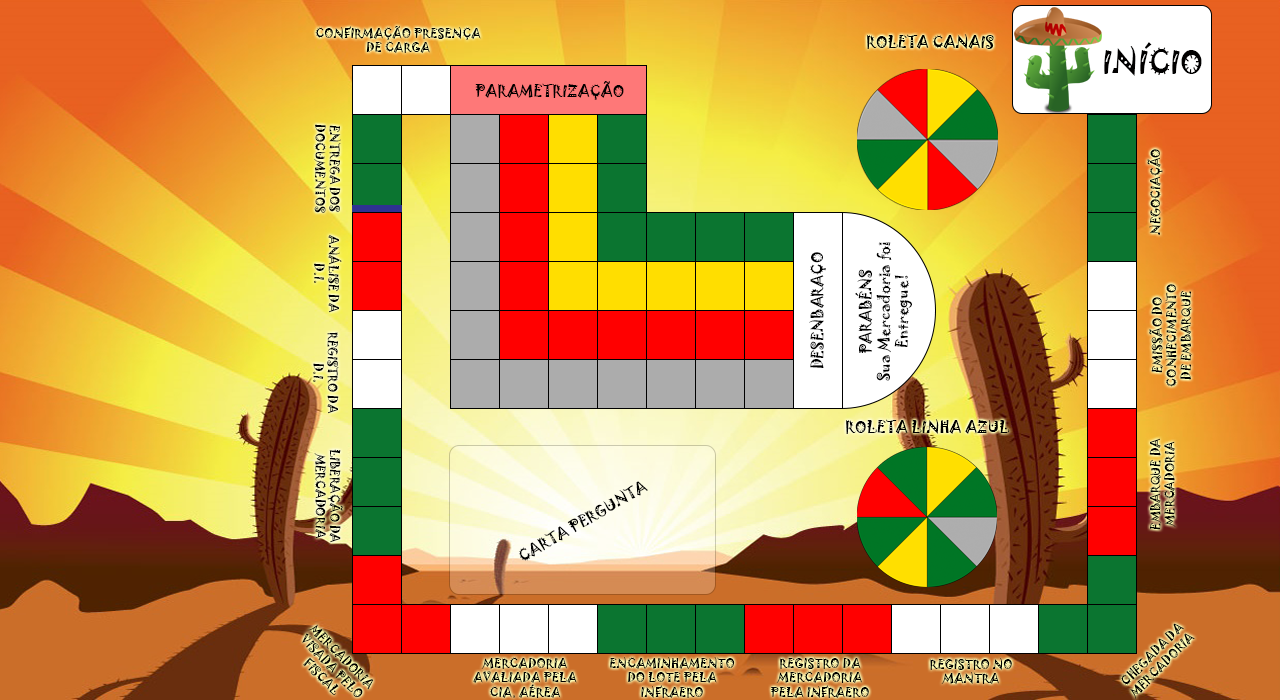
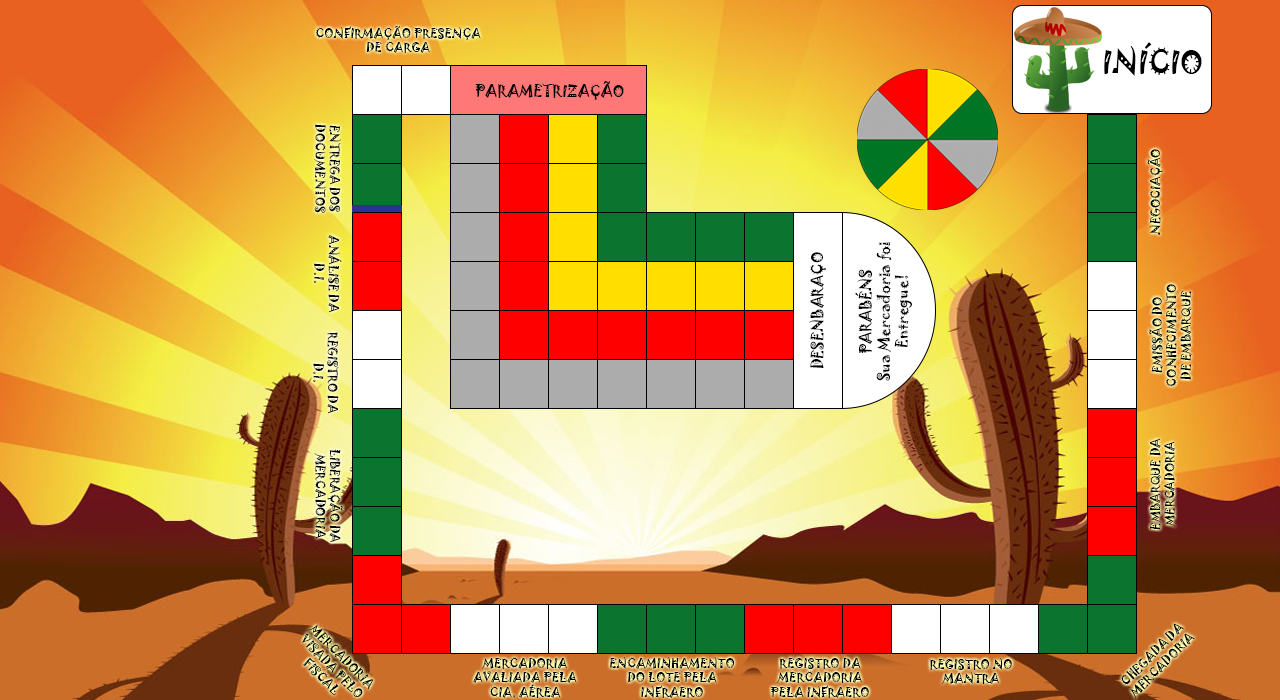
Desenvolvimento

Changed region(s): [[0.6562, 0.6, 0.8125, 0.84], [0.3438, 0.69, 0.5625, 0.87], [0.6562, 0.03, 0.7812, 0.09]]

diff --git a/src/views/GuiPrincipal.java b/src/views/GuiPrincipal.java
@@ -2,6 +2,7 @@ package views;
 
 import java.awt.Color;
 import java.awt.Container;
+import java.awt.Cursor;
 import java.awt.Dimension;
 import java.awt.Font;
 import java.awt.Image;
@@ -17,7 +18,6 @@ import java.util.Collections;
 
 import javax.imageio.ImageIO;
 import javax.swing.ImageIcon;
-import javax.swing.JButton;
 import javax.swing.JFrame;
 import javax.swing.JLabel;
 import javax.swing.JMenu;
@@ -44,14 +44,13 @@ public class GuiPrincipal extends JFrame {
 			lblJogadorAtual, lblJogadorAtualNome, lblPinoLegendaJogador1,
 			lblPinoLegendaJogador2, lblPinoLegendaJogador3,
 			lblPinoLegendaJogador4, lblLegendaJogador1, lblLegendaJogador2,
-			lblLegendaJogador3, lblLegendaJogador4, lblDocumentos, lblRodada, lblCartaJogador;
+			lblLegendaJogador3, lblLegendaJogador4, lblDocumentos, lblRodada, lblCartaJogador, btnSelecionarPergunta, btnSelecionarSorteReves;
 	public Jogador jogador1 = new Jogador(), jogador2 = new Jogador(),
 			jogador3 = new Jogador(), jogador4 = new Jogador(),
 			jogadorAtual = new Jogador();
 	private JMenu mnPrincipal, mnAjuda;
 	private JMenuItem miSobre, miSair; // mnPrincipal;
 	private JMenuItem miAjuda; // mnAjuda;
-	private JButton btnSelecionarPergunta;
 	private Dimension d;
 
 	/**
@@ -123,7 +122,7 @@ public class GuiPrincipal extends JFrame {
 
 				d.width - 172, d.width - 225, d.width - 278, d.width - 329,
 				d.width - 381, d.width - 433, d.width - 485, d.width - 539,
-				d.width - 592, d.width - 644,/* 10 */d.width - 696,
+				d.width - 592, d.width - 644, d.width - 696,
 				d.width - 748, d.width - 800, d.width - 852, d.width - 904,
 				d.width - 957,
 
@@ -138,7 +137,7 @@ public class GuiPrincipal extends JFrame {
 
 				d.width - 198, d.width - 249, d.width - 302, d.width - 355,
 				d.width - 407, d.width - 457, d.width - 510, d.width - 562,
-				d.width - 615, d.width - 667,/* 10 */d.width - 719,
+				d.width - 615, d.width - 667, d.width - 719,
 				d.width - 771, d.width - 823, d.width - 875, d.width - 927,
 				d.width - 982,
 
@@ -153,7 +152,7 @@ public class GuiPrincipal extends JFrame {
 
 				d.width - 172, d.width - 225, d.width - 278, d.width - 329,
 				d.width - 381, d.width - 433, d.width - 485, d.width - 539,
-				d.width - 592, d.width - 644,/* 10 */d.width - 696,
+				d.width - 592, d.width - 644, d.width - 696,
 				d.width - 748, d.width - 800, d.width - 852, d.width - 904,
 				d.width - 957,
 
@@ -164,19 +163,19 @@ public class GuiPrincipal extends JFrame {
 
 		int[] yp1 = { 50, 130, 181, 234, 287, 340, 390, 440, 492, 545, 596,
 				649, 649, 649, 649, 649, 649, 649, 649, 649, 649, 649, 649,
-				649, 649, 649, 649,/* */598, 546, 494, 443, 391, 339, 287,
+				649, 649, 649, 649, 598, 546, 494, 443, 391, 339, 287,
 				236, 184, 132, 80, 80 };
 		int[] yp2 = { 50, 130, 181, 234, 287, 340, 390, 440, 492, 545, 596,
 				649, 649, 649, 649, 649, 649, 649, 649, 649, 649, 649, 649,
-				649, 649, 649, 649, /* */598, 546, 494, 443, 391, 339, 287,
+				649, 649, 649, 649, 598, 546, 494, 443, 391, 339, 287,
 				236, 184, 132, 80, 80 };
 		int[] yp3 = { 75, 154, 205, 260, 313, 366, 418, 468, 518, 568, 618,
 				672, 672, 672, 672, 672, 672, 672, 672, 672, 672, 672, 672,
-				672, 672, 672, 672, /* */620, 568, 516, 465, 413, 361, 309,
+				672, 672, 672, 672, 620, 568, 516, 465, 413, 361, 309,
 				258, 206, 154, 102, 102 };
 		int[] yp4 = { 75, 154, 205, 260, 313, 366, 418, 468, 518, 568, 618,
 				672, 672, 672, 672, 672, 672, 672, 672, 672, 672, 672, 672,
-				672, 672, 672, 672, /* */620, 568, 516, 465, 413, 361, 309,
+				672, 672, 672, 672, 620, 568, 516, 465, 413, 361, 309,
 				258, 206, 154, 102, 102 };
 
 		if (!isMove) {
@@ -454,7 +453,8 @@ public class GuiPrincipal extends JFrame {
 		}
 		lblJogadorAtual = new JLabel("Jogador atual: ");
 		lblJogadorAtualNome = new JLabel("");
-		btnSelecionarPergunta = new JButton("Sortear pergunta");
+		btnSelecionarPergunta = new JLabel("");
+		btnSelecionarSorteReves = new JLabel("");
 		lblDocumentos = new JLabel("");
 		lblRodada = new JLabel("Rodada: "+rodada);
 		lblCartaJogador = new JLabel("");
@@ -498,8 +498,34 @@ public class GuiPrincipal extends JFrame {
 		lblJogadorAtualNome.setBounds(175, 50, 80, 25);
 		lblCartaJogador.setBounds(50, 150, 201, 207);
 		lblRodada.setBounds(50, 80, 150, 25);
-		btnSelecionarPergunta.setBounds(522, 530, 200, 50);
+		btnSelecionarPergunta.setBounds(55, 375, 189, 110);
+		btnSelecionarPergunta.setCursor(new Cursor(Cursor.HAND_CURSOR));
+		
+		try {
+			img = ImageIO.read(new File("Btn_Selecionar_Pergunta.png"));
+		} catch (IOException e) {
+			e.printStackTrace();
+		}
 
+		ImageIcon imageIcon = new ImageIcon(img); // load the image to a
+													// imageIcon
+
+		btnSelecionarPergunta.setIcon(imageIcon);
+		
+		btnSelecionarSorteReves.setBounds(55, 375, 189, 110);
+		btnSelecionarSorteReves.setCursor(new Cursor(Cursor.HAND_CURSOR));
+		
+		try {
+			img = ImageIO.read(new File("Btn_Selecionar_Sorte_Reves.png"));
+		} catch (IOException e) {
+			e.printStackTrace();
+		}
+
+		imageIcon = new ImageIcon(img); // load the image to a
+													// imageIcon
+
+		btnSelecionarSorteReves.setIcon(imageIcon);
+		
 		add(lblLegendaJogador1);
 		add(lblLegendaJogador2);
 		add(lblLegendaJogador3);
@@ -509,6 +535,7 @@ public class GuiPrincipal extends JFrame {
 		add(lblRodada);
 		add(lblCartaJogador);
 		add(btnSelecionarPergunta);
+		add(btnSelecionarSorteReves);
 		lblJogadorAtual.setFont(f1);
 		lblJogadorAtualNome.setFont(f1);
 		lblRodada.setFont(f1);
@@ -541,53 +568,115 @@ public class GuiPrincipal extends JFrame {
 				GuiAjuda.abrir();
 			}
 		});
-
-		btnSelecionarPergunta.addActionListener(new ActionListener() {
-			public void actionPerformed(ActionEvent arg0) {
-				PerguntasDAO perguntasDao = new PerguntasDAO();
-				Pergunta pergunta = new Pergunta();
-				pergunta = perguntasDao.selecionarPergunta();
-				boolean resposta = false;
-				try {
-					resposta = perguntasDao.validarResposta(
-							pergunta,
-							JOptionPane.showInputDialog(
-									pergunta.getDescricao().replace("/", "\n")
-											+ "\n"
-											+ pergunta.getResposta()
-													.getDescA_Resposta()
-													.replace("/", "\n")
-											+ "\n"
-											+ pergunta.getResposta()
-													.getDescB_Resposta()
-													.replace("/", "\n")
-											+ "\n"
-											+ pergunta.getResposta()
-													.getDescC_Resposta()
-													.replace("/", "\n"))
-									.substring(0, 1));
-				} catch (NullPointerException e) {
-					resposta = false;
-				} catch (StringIndexOutOfBoundsException e) {
-					resposta = false;
-				}
-
-				if (resposta) {
-					JOptionPane.showMessageDialog(null,
-							"Resposta correta! Você avançou 1 casa :D");
-					drawPinos(1, getJogadorAtualId(), true);
-					avancarCasas(1);
-				} else {
-					JOptionPane.showMessageDialog(null, "Resposta incorreta!");
-					JOptionPane.showMessageDialog(null, "Sua punição será: "
-							+ pergunta.getPunicao().getDescricao());
-					realizarPunicao(pergunta.getPunicao().getAcao());
-				}
-				alterarJogador();
+		
+		btnSelecionarPergunta.addMouseListener(new MouseListener() {
+			
+			@Override
+			public void mouseReleased(MouseEvent e) {
+				// TODO Auto-generated method stub
+				
 			}
-
+			
+			@Override
+			public void mousePressed(MouseEvent e) {
+				if(!jogadorAtual.isParametrizacao()){
+					PerguntasDAO perguntasDao = new PerguntasDAO();
+					Pergunta pergunta = new Pergunta();
+					pergunta = perguntasDao.selecionarPergunta();
+					boolean resposta = false;
+					try {
+						resposta = perguntasDao.validarResposta(
+								pergunta,
+								JOptionPane.showInputDialog(
+										pergunta.getDescricao().replace("/", "\n")
+												+ "\n"
+												+ pergunta.getResposta()
+														.getDescA_Resposta()
+														.replace("/", "\n")
+												+ "\n"
+												+ pergunta.getResposta()
+														.getDescB_Resposta()
+														.replace("/", "\n")
+												+ "\n"
+												+ pergunta.getResposta()
+														.getDescC_Resposta()
+														.replace("/", "\n"))
+										.substring(0, 1));
+					} catch (NullPointerException erro) {
+						resposta = false;
+					} catch (StringIndexOutOfBoundsException erro) {
+						resposta = false;
+					}
+	
+					if (resposta) {
+						JOptionPane.showMessageDialog(null,
+								"Resposta correta! Você avançou 1 casa :D");
+						drawPinos(1, getJogadorAtualId(), true);
+						avancarCasas(1);
+					} else {
+						JOptionPane.showMessageDialog(null, "Resposta incorreta!");
+						JOptionPane.showMessageDialog(null, "Sua punição será: "
+								+ pergunta.getPunicao().getDescricao());
+						realizarPunicao(pergunta.getPunicao().getAcao());
+					}
+					alterarJogador();
+				}else{
+					JOptionPane.showMessageDialog(null, "Você está na parametrização. Por favor, utilize o botão \"Sortear carta Sorte/Revés\" ");
+				}
+			}
+			
+			@Override
+			public void mouseExited(MouseEvent e) {
+				// TODO Auto-generated method stub
+				
+			}
+			
+			@Override
+			public void mouseEntered(MouseEvent e) {
+				// TODO Auto-generated method stub
+				
+			}
+			
+			@Override
+			public void mouseClicked(MouseEvent e) {
+				// TODO Auto-generated method stub
+				
+			}
 		});
 		
+		btnSelecionarSorteReves.addMouseListener(new MouseListener() {
+			
+			@Override
+			public void mouseReleased(MouseEvent e) {
+				// TODO Auto-generated method stub
+				
+			}
+			
+			@Override
+			public void mousePressed(MouseEvent e) {
+				// TODO Auto-generated method stub
+				
+			}
+			
+			@Override
+			public void mouseExited(MouseEvent e) {
+				// TODO Auto-generated method stub
+				
+			}
+			
+			@Override
+			public void mouseEntered(MouseEvent e) {
+				// TODO Auto-generated method stub
+				
+			}
+			
+			@Override
+			public void mouseClicked(MouseEvent e) {
+				// TODO Auto-generated method stub
+				
+			}
+		});
+
 		lblCartaJogador.addMouseListener(new MouseListener() {
 			
 			@Override
